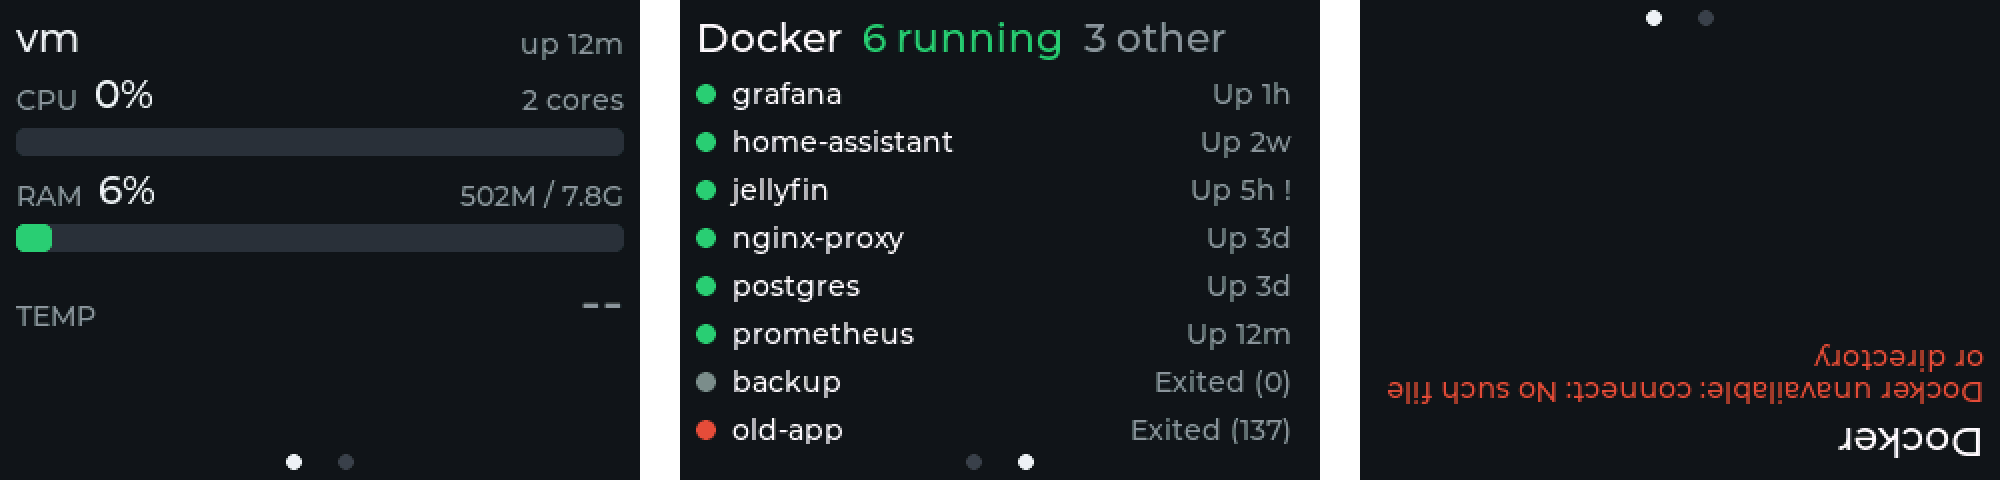
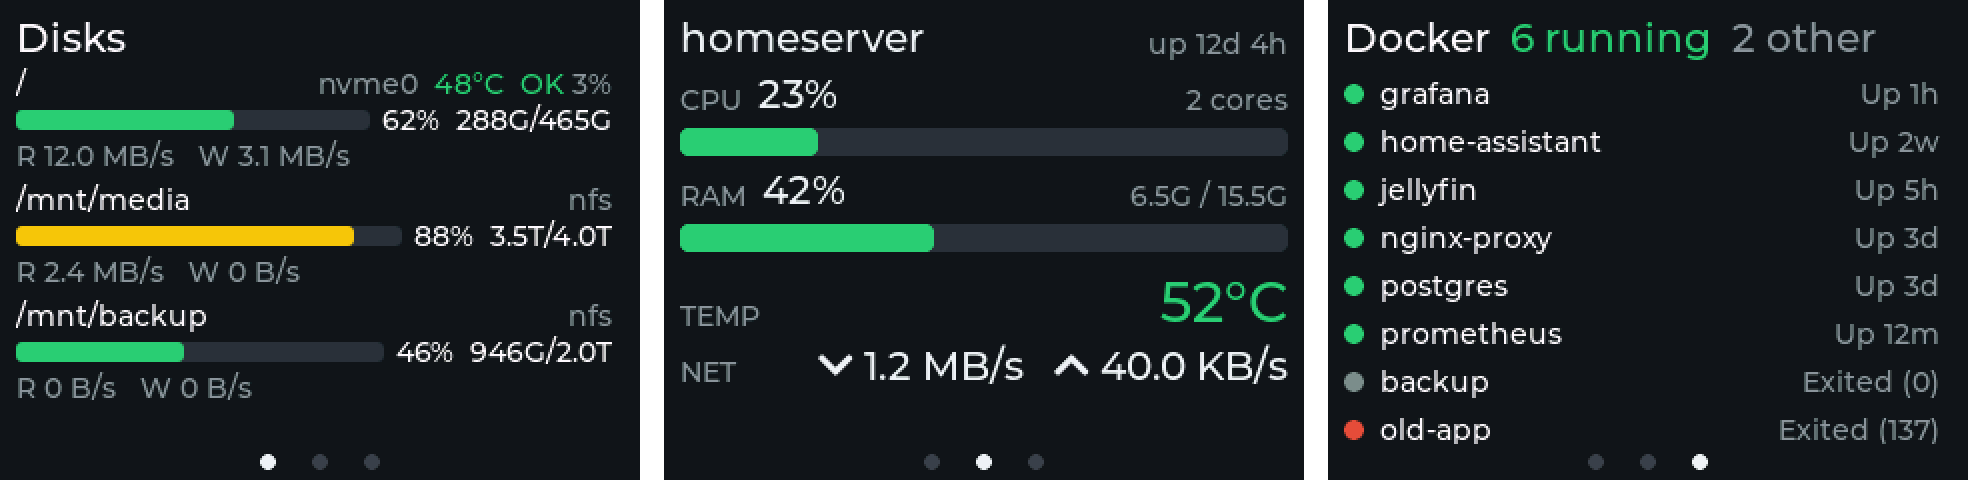
docs: one README screenshot with all three pages

diff --git a/README.md b/README.md
@@ -12,8 +12,7 @@ The program starts on Overview and slides back to it after a minute without touc
 - **Overview** (home) — hostname, uptime, CPU, RAM, temperature, network speed
 - **Docker** — running/other counts and a scrollable list of containers (read-only)
 
-![screens](docs/screenshots.png)
-![disks](docs/screenshots-disks.png)
+![Disks, Overview and Docker pages](docs/screenshots.png)
 
 ## Build
 
